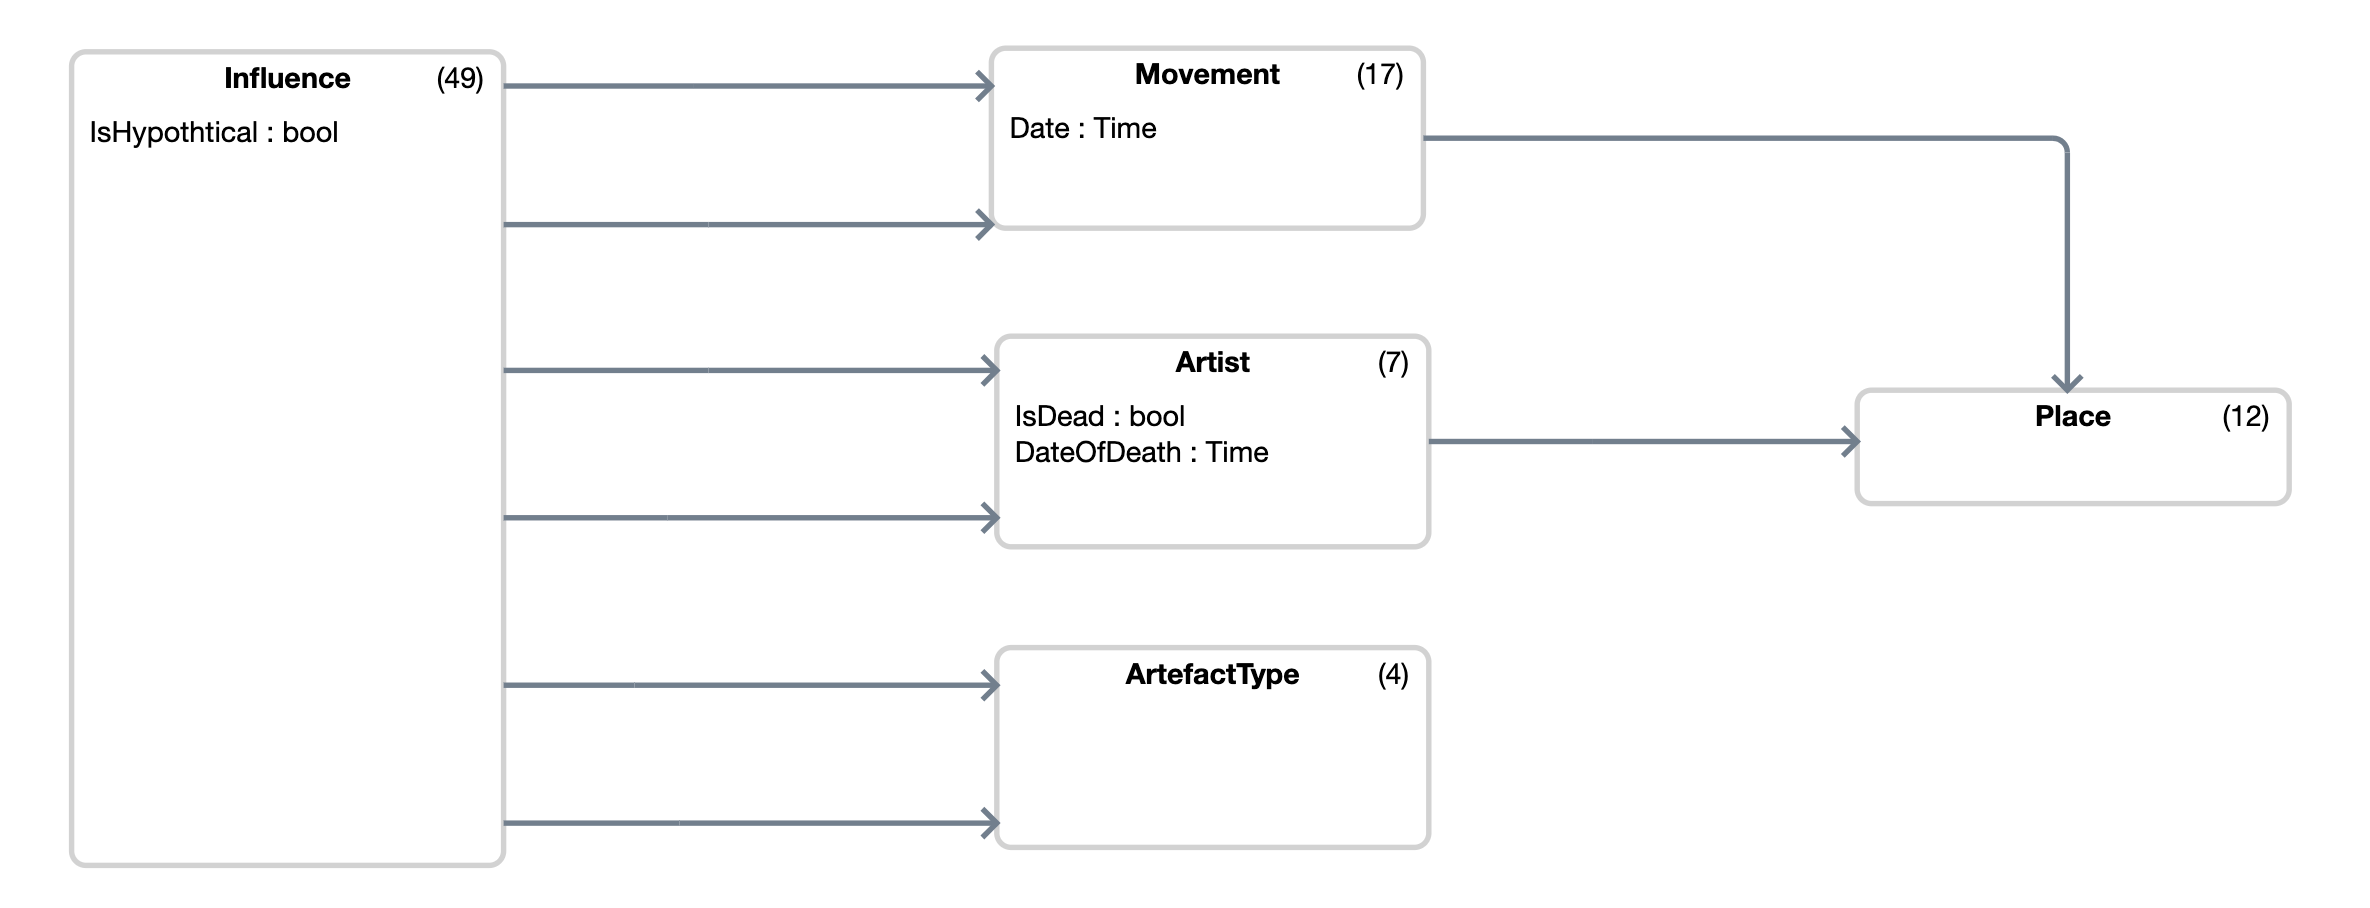
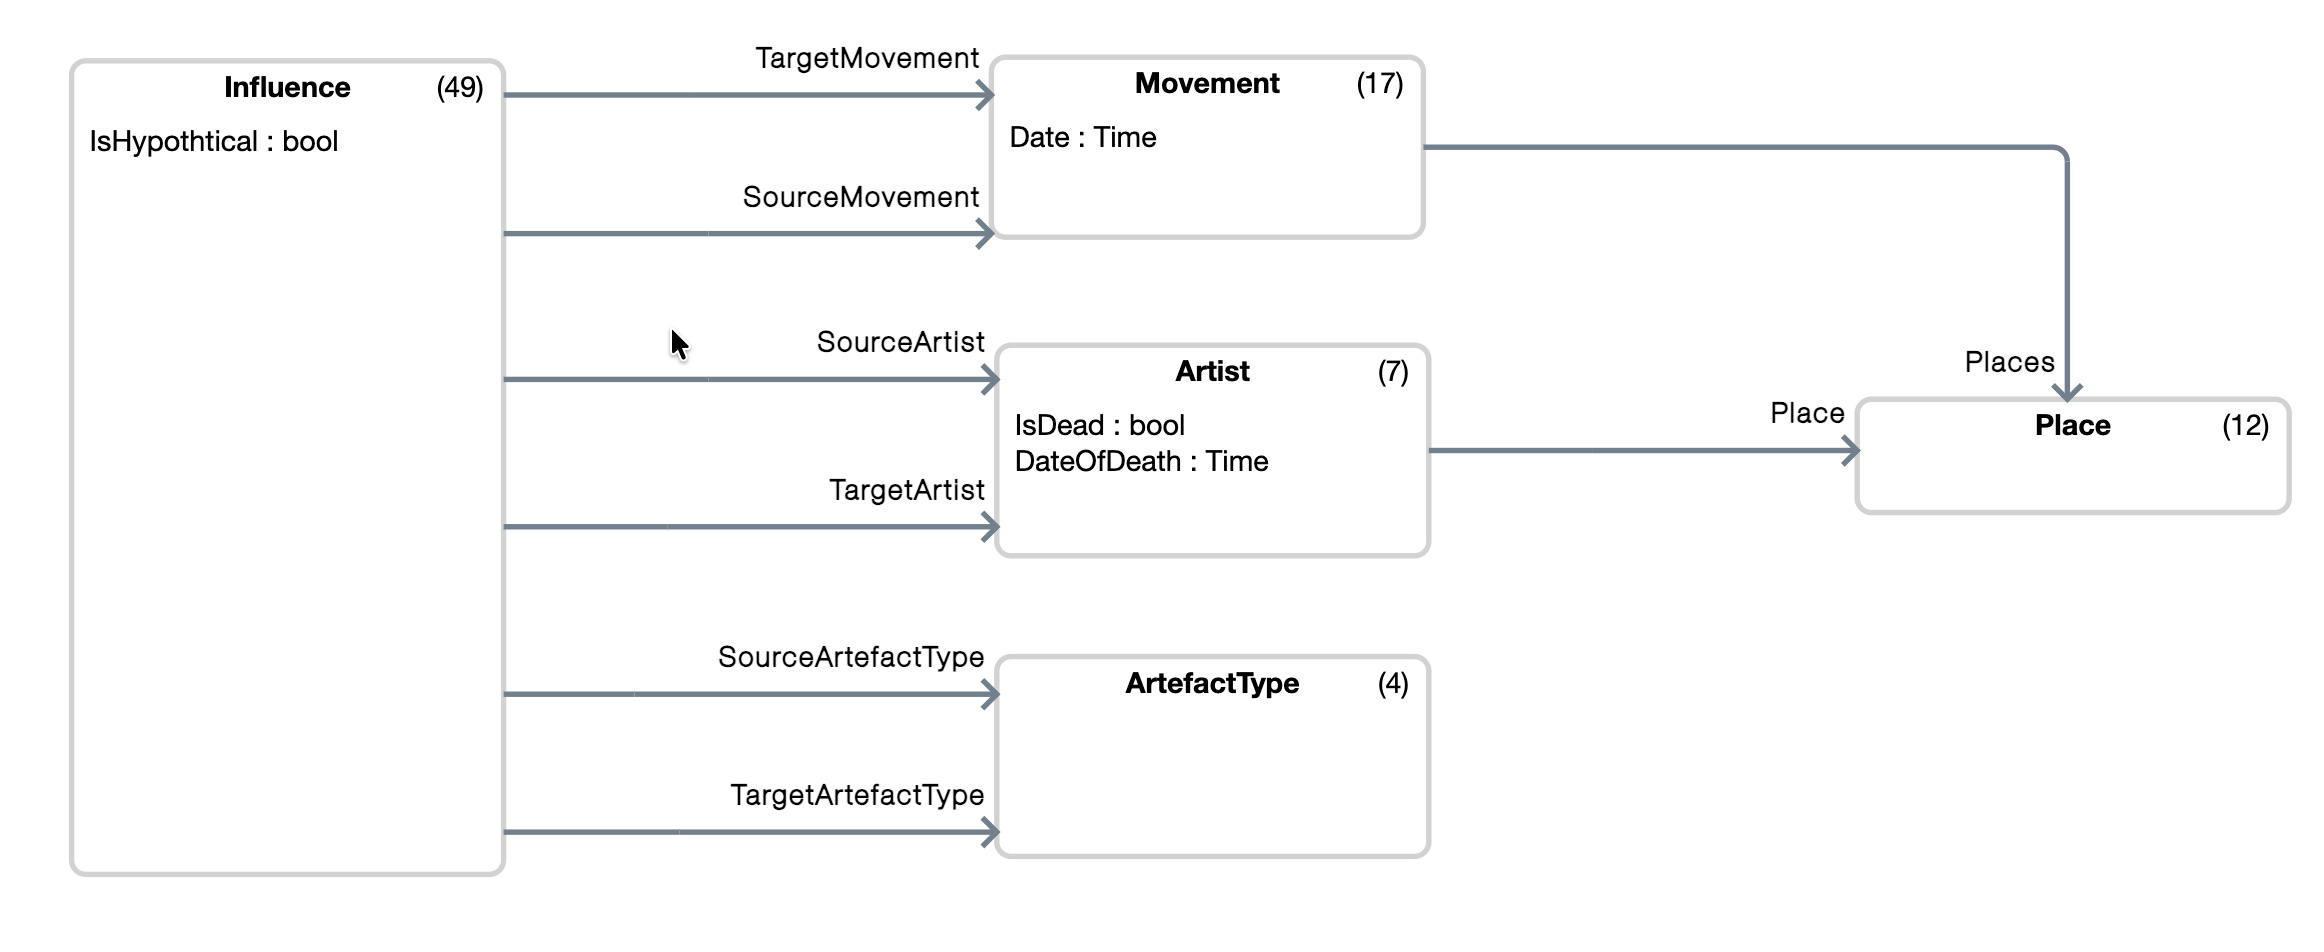
barrgraph Fixes #1155 - README

Changed region(s): [[0.031, 0.0308, 0.9914, 0.9559]]

diff --git a/dsme/barrgraph/go/cmd/barrgraph/data/stage.go b/dsme/barrgraph/go/cmd/barrgraph/data/stage.go
@@ -714,7 +714,7 @@ func _(stage *models.Stage) {
 	__Diagram__00000000_.Name = `Cubism   and   abstract   art`
 	__Diagram__00000000_.IsEditable = false
 	__Diagram__00000000_.IsNodeExpanded = true
-	__Diagram__00000000_.IsMovementCategoryNodeExpanded = true
+	__Diagram__00000000_.IsMovementCategoryNodeExpanded = false
 	__Diagram__00000000_.IsArtefactTypeCategoryNodeExpanded = false
 	__Diagram__00000000_.IsArtistCategoryNodeExpanded = false
 	__Diagram__00000000_.IsInfluenceCategoryNodeExpanded = false

diff --git a/dsme/barrgraph/go/diagrams/diagrams.go b/dsme/barrgraph/go/diagrams/diagrams.go
@@ -302,7 +302,7 @@ func _(stage *models.Stage) {
 	__Classdiagram__00000000_.IsIncludedInStaticWebSite = true
 	__Classdiagram__00000000_.ShowNbInstances = true
 	__Classdiagram__00000000_.ShowMultiplicity = false
-	__Classdiagram__00000000_.ShowLinkNames = false
+	__Classdiagram__00000000_.ShowLinkNames = true
 	__Classdiagram__00000000_.IsInRenameMode = false
 	__Classdiagram__00000000_.IsExpanded = false
 	__Classdiagram__00000000_.NodeGongStructsIsExpanded = false

diff --git a/dsme/barrgraph/README.md b/dsme/barrgraph/README.md
@@ -15,15 +15,30 @@ Alfred H. Barr Jr., the first director of the Museum of Modern Art (MoMA), famou
 - **Curatorial Metadata:** Attach descriptions, key artists, and representative works to each node.
 - **Visual Styling:** Export charts that pay homage to the classic mid-century aesthetic of Barr's original posters.
 
+## Abstract Syntax
+
+The application is built around a domain-specific model that captures the relationships between art movements.
+
+![Abstract Syntax](images/barr's%20absract%20syntax.png)
+*The abstract syntax defining ArtMovements and their Influences.*
+
+The model consists of:
+- **ArtMovement**: Represents a distinct artistic movement or period.
+- **Influence**: Represents a directed relationship where one movement influences another. An `Influence` links a **Source** `ArtMovement` to a **Target** `ArtMovement`.
+
+### Abstract Syntax vs. Concrete Graph
+
+It is important to distinguish between the **Abstract Syntax** (the model definition) and the **Concrete Graph** (the visualization):
+
+1.  **Source & Target**: The `Influence` class in the abstract syntax defines a relationship between two `ArtMovement`s. In the data, each `Influence` instance explicitly points to a **Source** movement and a **Target** movement.
+2.  **Cardinality**: While the abstract syntax diagram shows only two boxes (`ArtMovement` and `Influence`), the actual graph will contain many nodes and edges. The number of nodes in the graph equals the number of `ArtMovement` instances in the database, and the number of edges equals the number of `Influence` instances. For example, the reproduction of Barr's chart involves **17 movements**, **7 artists**, **4 Artefact type**, **12 places** (in western Europe) and **49 associations**.
+
 ## Gallery
 
 Below are examples of the tool in use, including the original inspiration and the digital recreation.
 
 ![Alfred Barr's Original Poster](images/orignal%20poster.png)
 *The original inspiration: Barr's chart for "Cubism and Abstract Art" (1936).*
-
-![BarrGraph Interface](images/barr's%20absract%20syntax.png)
-*The BarrGraph interface allowing for node creation and link editing.*
 
 ![Generated Graph](images/poster%20with%20barrgraph.png)
 *A complex art movement graph generated by the tool.*